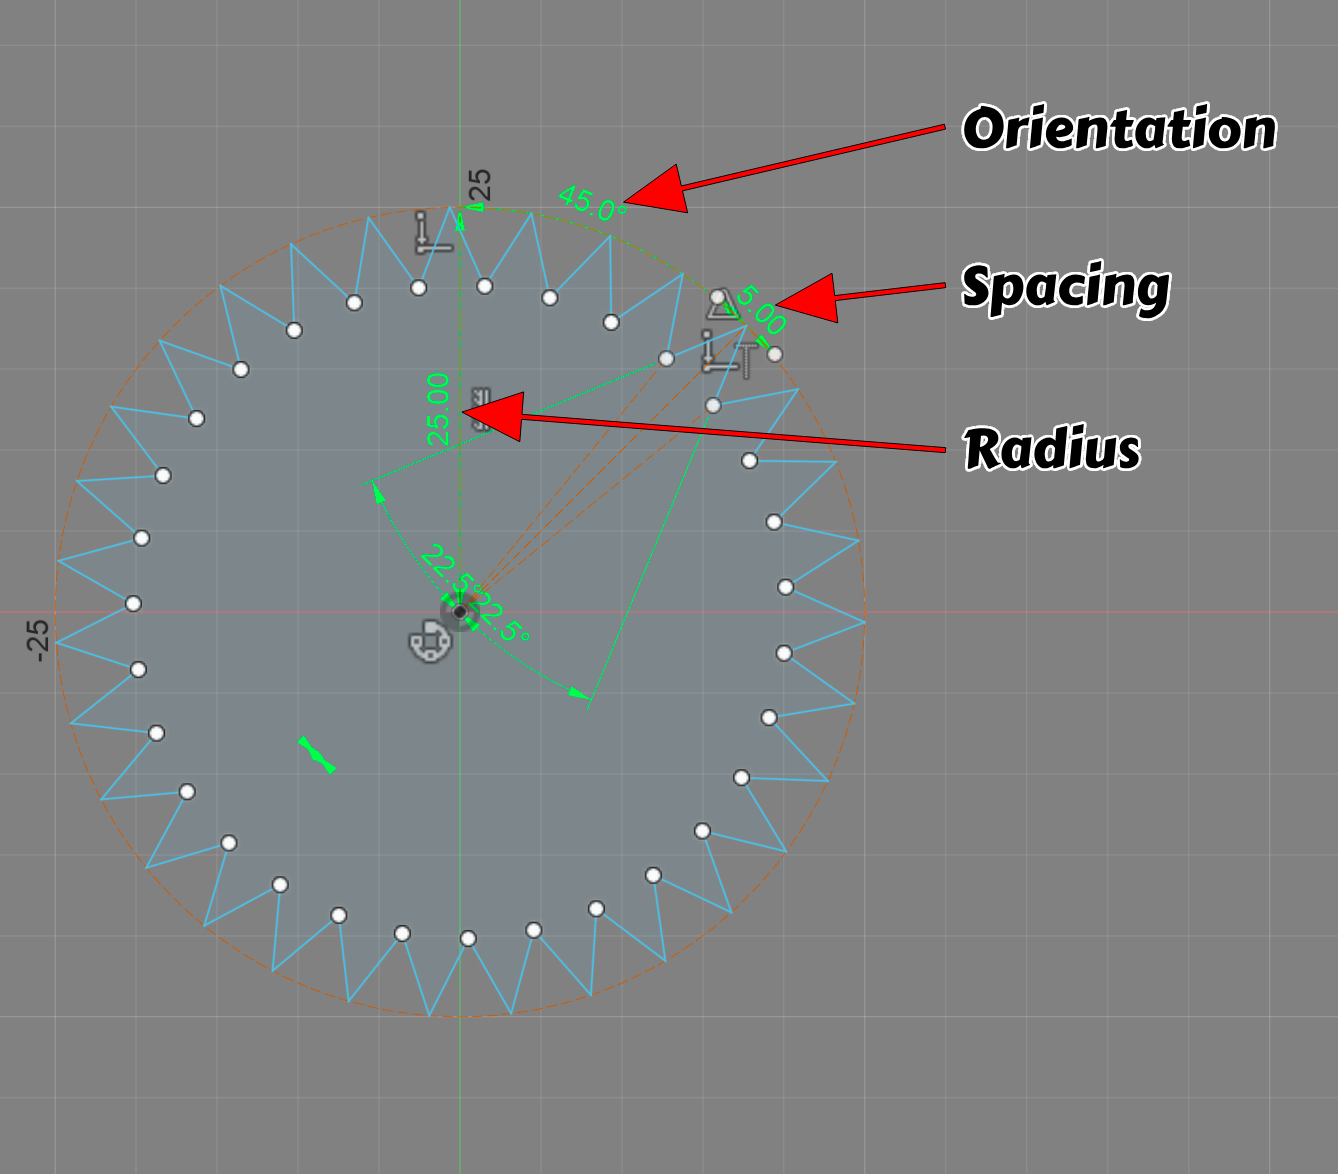
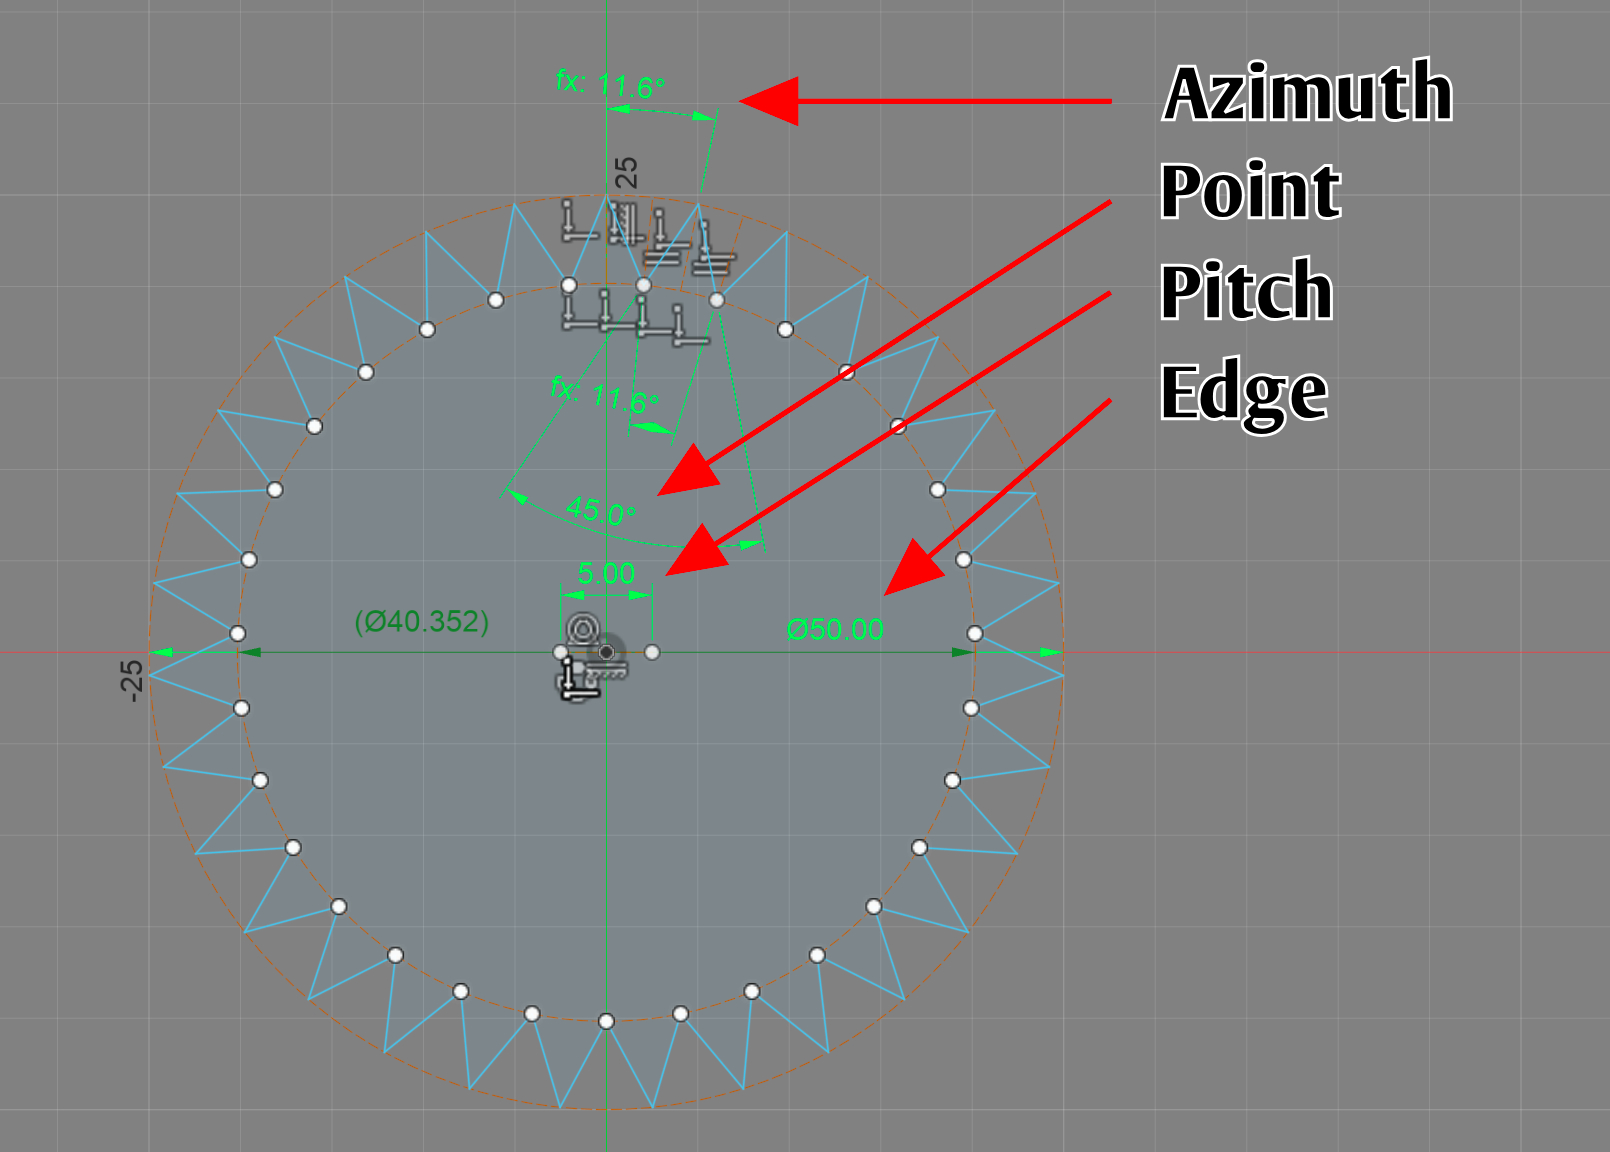
0.1.0

diff --git a/Teeth/Teeth.py b/Teeth/Teeth.py
@@ -3,10 +3,11 @@ import adsk.core, adsk.fusion, traceback, math
 id = 'com-autodesk-fusion360-addins-teeth'
 name = 'Gear'
 description = 'Sketches a gear.'
+resources = './resources'
 
-defaultRadius = 2.5
-defaultSpacing = 0.5
-defaultOrientation = math.radians(45)
+radiusInit = 2.5
+pitchInit = 0.5
+pointInit = math.radians(45)
 
 def run(context):
   try:
@@ -15,24 +16,26 @@ def run(context):
     app = adsk.core.Application.get()
     ui = app.userInterface
     panel = ui.allToolbarPanels.itemById('SketchCreatePanel')
-    outward = Outward()
-    factories.append(outward)
+    menu = panel.controls.itemById(id + '-menu')
+    if menu: return
+    menu = panel.controls.addDropDown(name, resources, id + '-menu')
+    external = External()
+    factories.append(external)
     command = ui.commandDefinitions.itemById(id)
     if command: return
-    command = ui.commandDefinitions.addButtonDefinition(id, name, description, './resources')
-    command.commandCreated.add(outward)
-    panel.controls.addCommand(command)
-    inward = Inward()
-    factories.append(inward)
-    invertedId = id + '-inverted'
-    command = ui.commandDefinitions.addButtonDefinition(invertedId, name + ' (Inverted)', description, './resources')
-    command.commandCreated.add(inward)
-    panel.controls.addCommand(command)
+    command = ui.commandDefinitions.addButtonDefinition(id + '-external', 'External', description, resources)
+    command.commandCreated.add(external)
+    menu.controls.addCommand(command)
+    internal = Internal()
+    factories.append(internal)
+    command = ui.commandDefinitions.addButtonDefinition(id + '-internal', 'Internal', description, resources)
+    command.commandCreated.add(internal)
+    menu.controls.addCommand(command)
     adsk.autoTerminate(False)
   except:
     if ui: ui.messageBox('Failed:\n{}'.format(traceback.format_exc()))
 
-class Outward(adsk.core.CommandCreatedEventHandler):
+class External(adsk.core.CommandCreatedEventHandler):
   def __init__(self):
     super().__init__()
   def notify(self, args):
@@ -41,10 +44,9 @@ class Outward(adsk.core.CommandCreatedEventHandler):
       ui = app.userInterface
       draw(False)
     except:
-      self.transaction.abort()
       if ui: ui.messageBox('Failed:\n{}'.format(traceback.format_exc()))
 
-class Inward(adsk.core.CommandCreatedEventHandler):
+class Internal(adsk.core.CommandCreatedEventHandler):
   def __init__(self):
     super().__init__()
   def notify(self, args):
@@ -53,57 +55,86 @@ class Inward(adsk.core.CommandCreatedEventHandler):
       ui = app.userInterface
       draw(True)
     except:
-      self.transaction.abort()
       if ui: ui.messageBox('Failed:\n{}'.format(traceback.format_exc()))
 
-def draw(invert: bool):
+def draw(internal: bool):
   sketch = adsk.fusion.Sketch.cast(adsk.core.Application.get().activeEditObject)
   if not sketch: return
-  deg = math.radians(1)
-  radius = defaultRadius
-  spacing = defaultSpacing
-  orientation = defaultOrientation
-  center = sketch.sketchCurves.sketchLines.addByTwoPoints(adsk.core.Point3D.create(0, 0, 0), adsk.core.Point3D.create(0, radius, 0))
-  center.isCenterLine = True
-  sketch.geometricConstraints.addVertical(center)
-  dimRadius = sketch.sketchDimensions.addDistanceDimension(center.startSketchPoint, center.endSketchPoint, adsk.fusion.DimensionOrientations.AlignedDimensionOrientation, adsk.core.Point3D.create(0, radius / 2, 0)).parameter
-  edge = sketch.sketchCurves.sketchCircles.addByCenterRadius(center.startSketchPoint.geometry, radius)
-  edge.isConstruction = True
-  sketch.geometricConstraints.addCoincident(center.startSketchPoint, edge.centerSketchPoint)
-  sketch.geometricConstraints.addCoincident(center.endSketchPoint, edge)
-  extent = center.endSketchPoint if orientation == 0 else adsk.core.Point3D.create(math.sin(orientation)*radius, math.cos(orientation)*radius, 0)
-  orient = center if orientation == 0 else sketch.sketchCurves.sketchLines.addByTwoPoints(center.startSketchPoint, extent)
-  orient.isConstruction = True
-  if orientation != 0:
-    sketch.geometricConstraints.addCoincident(orient.endSketchPoint, edge)
-    sketch.sketchDimensions.addAngularDimension(center, orient, adsk.core.Point3D.create(math.sin(orientation/2)*radius, math.cos(orientation/2)*radius, 0))
-  measure = sketch.sketchCurves.sketchLines.addByTwoPoints(adsk.core.Point3D.create(0,0,0), adsk.core.Point3D.create(spacing,0,0))
+  # Verbosity
+  pt = adsk.core.Point3D.create
+  ln = sketch.sketchCurves.sketchLines.addByTwoPoints
+  cir = sketch.sketchCurves.sketchCircles.addByCenterRadius
+  dim = sketch.sketchDimensions
+  const = sketch.geometricConstraints
+  aligned = adsk.fusion.DimensionOrientations.AlignedDimensionOrientation
+  # Calculations
+  radi = radiusInit
+  circ = radi*2*math.pi
+  point = pointInit
+  count = math.floor(circ / pitchInit)
+  pitch = math.radians(360 / count)
+  slope = (point-pitch)/2 if internal else (point+pitch)/2
+  depth = math.cos(slope)/math.sin(slope)*circ/count/2
+  iface = radi + depth if internal else radi - depth
+  # Pitch measure
+  measure = ln(pt(-pitchInit/2, 0, 0), pt(pitchInit/2, 0, 0))
   measure.isConstruction = True
-  dimSpacing = sketch.sketchDimensions.addDistanceDimension(measure.startSketchPoint, measure.endSketchPoint, adsk.fusion.DimensionOrientations.AlignedDimensionOrientation, adsk.core.Point3D.create(spacing/2, 0, 0)).parameter
-  sketch.geometricConstraints.addMidPoint(orient.endSketchPoint, measure)
-  sketch.geometricConstraints.addPerpendicular(orient, measure)
-  countFormula = 'floor((' + dimRadius.name + '/1' + dimRadius.unit + ') * 2 * PI / (' + dimSpacing.name + '/1' + dimSpacing.unit + '))'
-  guideFormula = '360 deg/' + countFormula + '/2'
-  project = radius * 1.5 if invert else radius * 0.5
-  left = sketch.sketchCurves.sketchLines.addByTwoPoints(orient.endSketchPoint, adsk.core.Point3D.create(math.sin(orientation-deg*2)*project, math.cos(orientation-deg*2)*project, 0))
-  dimLeft = sketch.sketchDimensions.addAngularDimension(orient, left, adsk.core.Point3D.create(math.sin(orientation-deg)*project, math.cos(orientation-deg)*project, 0))
-  dimLeft.value = math.radians(45/2)
-  dimLeft.textPosition = center.startSketchPoint.geometry
-  guideLeft = sketch.sketchCurves.sketchLines.addByTwoPoints(center.startSketchPoint, left.endSketchPoint)
-  guideLeft.isConstruction = True
-  dimGuideLeft = sketch.sketchDimensions.addAngularDimension(orient, guideLeft, adsk.core.Point3D.create(math.sin(orientation-deg)*project, math.cos(orientation-deg)*project, 0))
-  dimGuideLeft.parameter.expression = guideFormula
-  dimGuideLeft.textPosition = center.startSketchPoint.geometry
-  right = sketch.sketchCurves.sketchLines.addByTwoPoints(orient.endSketchPoint, adsk.core.Point3D.create(math.sin(orientation+deg*2)*project, math.cos(orientation+deg*2)*project, 0))
-  dimRight = sketch.sketchDimensions.addAngularDimension(orient, right, adsk.core.Point3D.create(math.sin(orientation+deg)*project, math.cos(orientation+deg)*project, 0))
-  dimRight.value = math.radians(45/2)
-  dimRight.textPosition = center.startSketchPoint.geometry
-  guideRight = sketch.sketchCurves.sketchLines.addByTwoPoints(center.startSketchPoint, right.endSketchPoint)
-  guideRight.isConstruction = True
-  dimGuideRight = sketch.sketchDimensions.addAngularDimension(orient, guideRight, adsk.core.Point3D.create(math.sin(orientation+deg)*project, math.cos(orientation+deg)*project, 0))
-  dimGuideRight.parameter.expression = guideFormula
-  dimGuideRight.textPosition = center.startSketchPoint.geometry
-  pattern = sketch.geometricConstraints.createCircularPatternInput([left, right], center.startSketchPoint)
-  pattern.quantity = adsk.core.ValueInput.createByString(countFormula)
-  pattern.totalAngle = adsk.core.ValueInput.createByString('360 deg')
-  sketch.geometricConstraints.addCircularPattern(pattern)
+  dimPitch = dim.addDistanceDimension(measure.startSketchPoint, measure.endSketchPoint, aligned, pt(0, radi/8, 0)).parameter
+  name = dimPitch.name
+  dimPitch.name = name + 'Pitch'
+  const.addHorizontal(measure)
+  # The root circle
+  edge = cir(pt(0, 0, 0), radi)
+  edge.isConstruction = True
+  dimEdge = dim.addDiameterDimension(edge, pt(radi/2, 0, 0)).parameter
+  dimEdge.name = name + 'Edge'
+  const.addMidPoint(edge.centerSketchPoint, measure)
+  # The addendum circle
+  base = cir(edge.centerSketchPoint.geometry, iface)
+  base.isConstruction = True
+  dimBase = dim.addDiameterDimension(base, pt(iface/-2, 0, 0), False).parameter
+  dimBase.name = name + 'Base'
+  const.addConcentric(edge, base)
+  # The center line
+  center = ln(pt(0, iface, 0), pt(0, radi, 0))
+  center.isCenterLine = True
+  const.addCoincident(center.startSketchPoint, base)
+  const.addCoincident(center.endSketchPoint, edge)
+  const.addCoincident(edge.centerSketchPoint, center)
+  const.addVertical(center)
+  # The azimuth line
+  azi = ln(pt(math.sin(pitch)*iface, math.cos(pitch)*iface, 0), pt(math.sin(pitch)*radi, math.cos(pitch)*radi, 0))
+  azi.isConstruction = True
+  dimAzi = dim.addAngularDimension(center, azi, pt(math.sin(pitch/2)*(radi+depth), math.cos(pitch/2)*(radi+depth), 0)).parameter
+  dimAzi.name = name + 'Azimuth'
+  const.addCoincident(azi.startSketchPoint, base)
+  const.addCoincident(azi.endSketchPoint, edge)
+  const.addCoincident(edge.centerSketchPoint, azi)
+  # The tooth
+  left = ln(pt(math.sin(pitch*.5)*iface, math.cos(pitch*.5)*iface, 0), pt(math.sin(pitch*.5)*radi, math.cos(pitch*.5)*radi, 0))
+  left.isConstruction = True
+  const.addCoincident(left.startSketchPoint, base)
+  const.addCoincident(left.endSketchPoint, edge)
+  const.addCoincident(edge.centerSketchPoint, left)
+  right = ln(pt(math.sin(pitch*1.5)*iface, math.cos(pitch*1.5)*iface, 0), pt(math.sin(pitch*1.5)*radi, math.cos(pitch*1.5)*radi, 0))
+  right.isConstruction = True
+  const.addCoincident(right.startSketchPoint, base)
+  const.addCoincident(right.endSketchPoint, edge)
+  const.addCoincident(edge.centerSketchPoint, right)
+  dimSpan = dim.addAngularDimension(left, right, pt(math.sin(pitch)*radi/2, math.cos(pitch)*radi/2, 0)).parameter
+  dimSpan.name = name + 'PitchAngle'
+  midl = ln(left.startSketchPoint, azi.endSketchPoint)
+  midr = ln(right.startSketchPoint, azi.endSketchPoint)
+  const.addEqual(midl, midr)
+  dimPoint = dim.addAngularDimension(midl, midr, pt(math.sin(pitch)*radi/4, math.cos(pitch)*radi/4, 0)).parameter
+  dimPoint.name = name + 'Point'
+  dimPoint.value = point
+  # The pattern
+  input = const.createCircularPatternInput([midl, midr], edge.centerSketchPoint)
+  input.quantity = adsk.core.ValueInput.createByString('floor((' + dimEdge.name + '/1' + dimEdge.unit + ')*PI/(' + dimPitch.name + '/1' + dimPitch.unit + '))')
+  input.totalAngle = adsk.core.ValueInput.createByString('360 deg')
+  pattern = const.addCircularPattern(input)
+  pattern.quantity.name = name + 'Count'
+  dimSpan.expression = '360 deg /' + pattern.quantity.name
+  dimAzi.expression = dimSpan.name
+

diff --git a/README.md b/README.md
@@ -13,19 +13,16 @@
 
 The menu item will add a new gear to the sketch.
 
-<img src="./resources/create-menu.jpg" style="width: 25em"/>
+<img src="./resources/create-menu.jpg" style="height: 30em"/>
 
 The gear can then be configured by adjusting its dimensions:
 
-* **Orientation:** The rotation of the gear.
-  * This dimension can be deleted and a coincident with one of the teeth can be used instead.
-* **Spacing:** The distance between the teeth.
-  * Set this to the same value for all of the gears that will be interlocking.
-  * The actual spacing will vary slightly based on the gear radius.
-* **Radius:** This is the radius of the gears edge.
-  * For inverted gears this will be the inner point of the teeth.
+* **Edge:** The diameter of the gear.
+* **Pitch:** The distance between teeth.
+* **Point:** The angle of the teeth.
+* **Azimuth:** The rotation of the gear.
 
-<img src="./resources/gear-configuration.jpg" style="width: 25em"/>
+<img src="./resources/gear-configuration.jpg" style="height: 30em"/>
 
 ## Safety
 
@@ -66,6 +63,10 @@ Here are some measures to take:
 
 ## Notes
 
+* **v0.1.0**
+  * Feature: Adds a "Gear" menu group containing "External" and "Internal" gears
+  * Feature: Sketch parameters are more appropriately named
+  * Fix: Gears have simpler structures
 * **v0.0.0**
   * Feature: Adds "Gear" and "Gear (Inverted)" to the "Create" menu in the "Sketch" space
   * Feature: Draws a gear in the sketch so that the dimensions can be edited (no inputs/dialogs needed)
